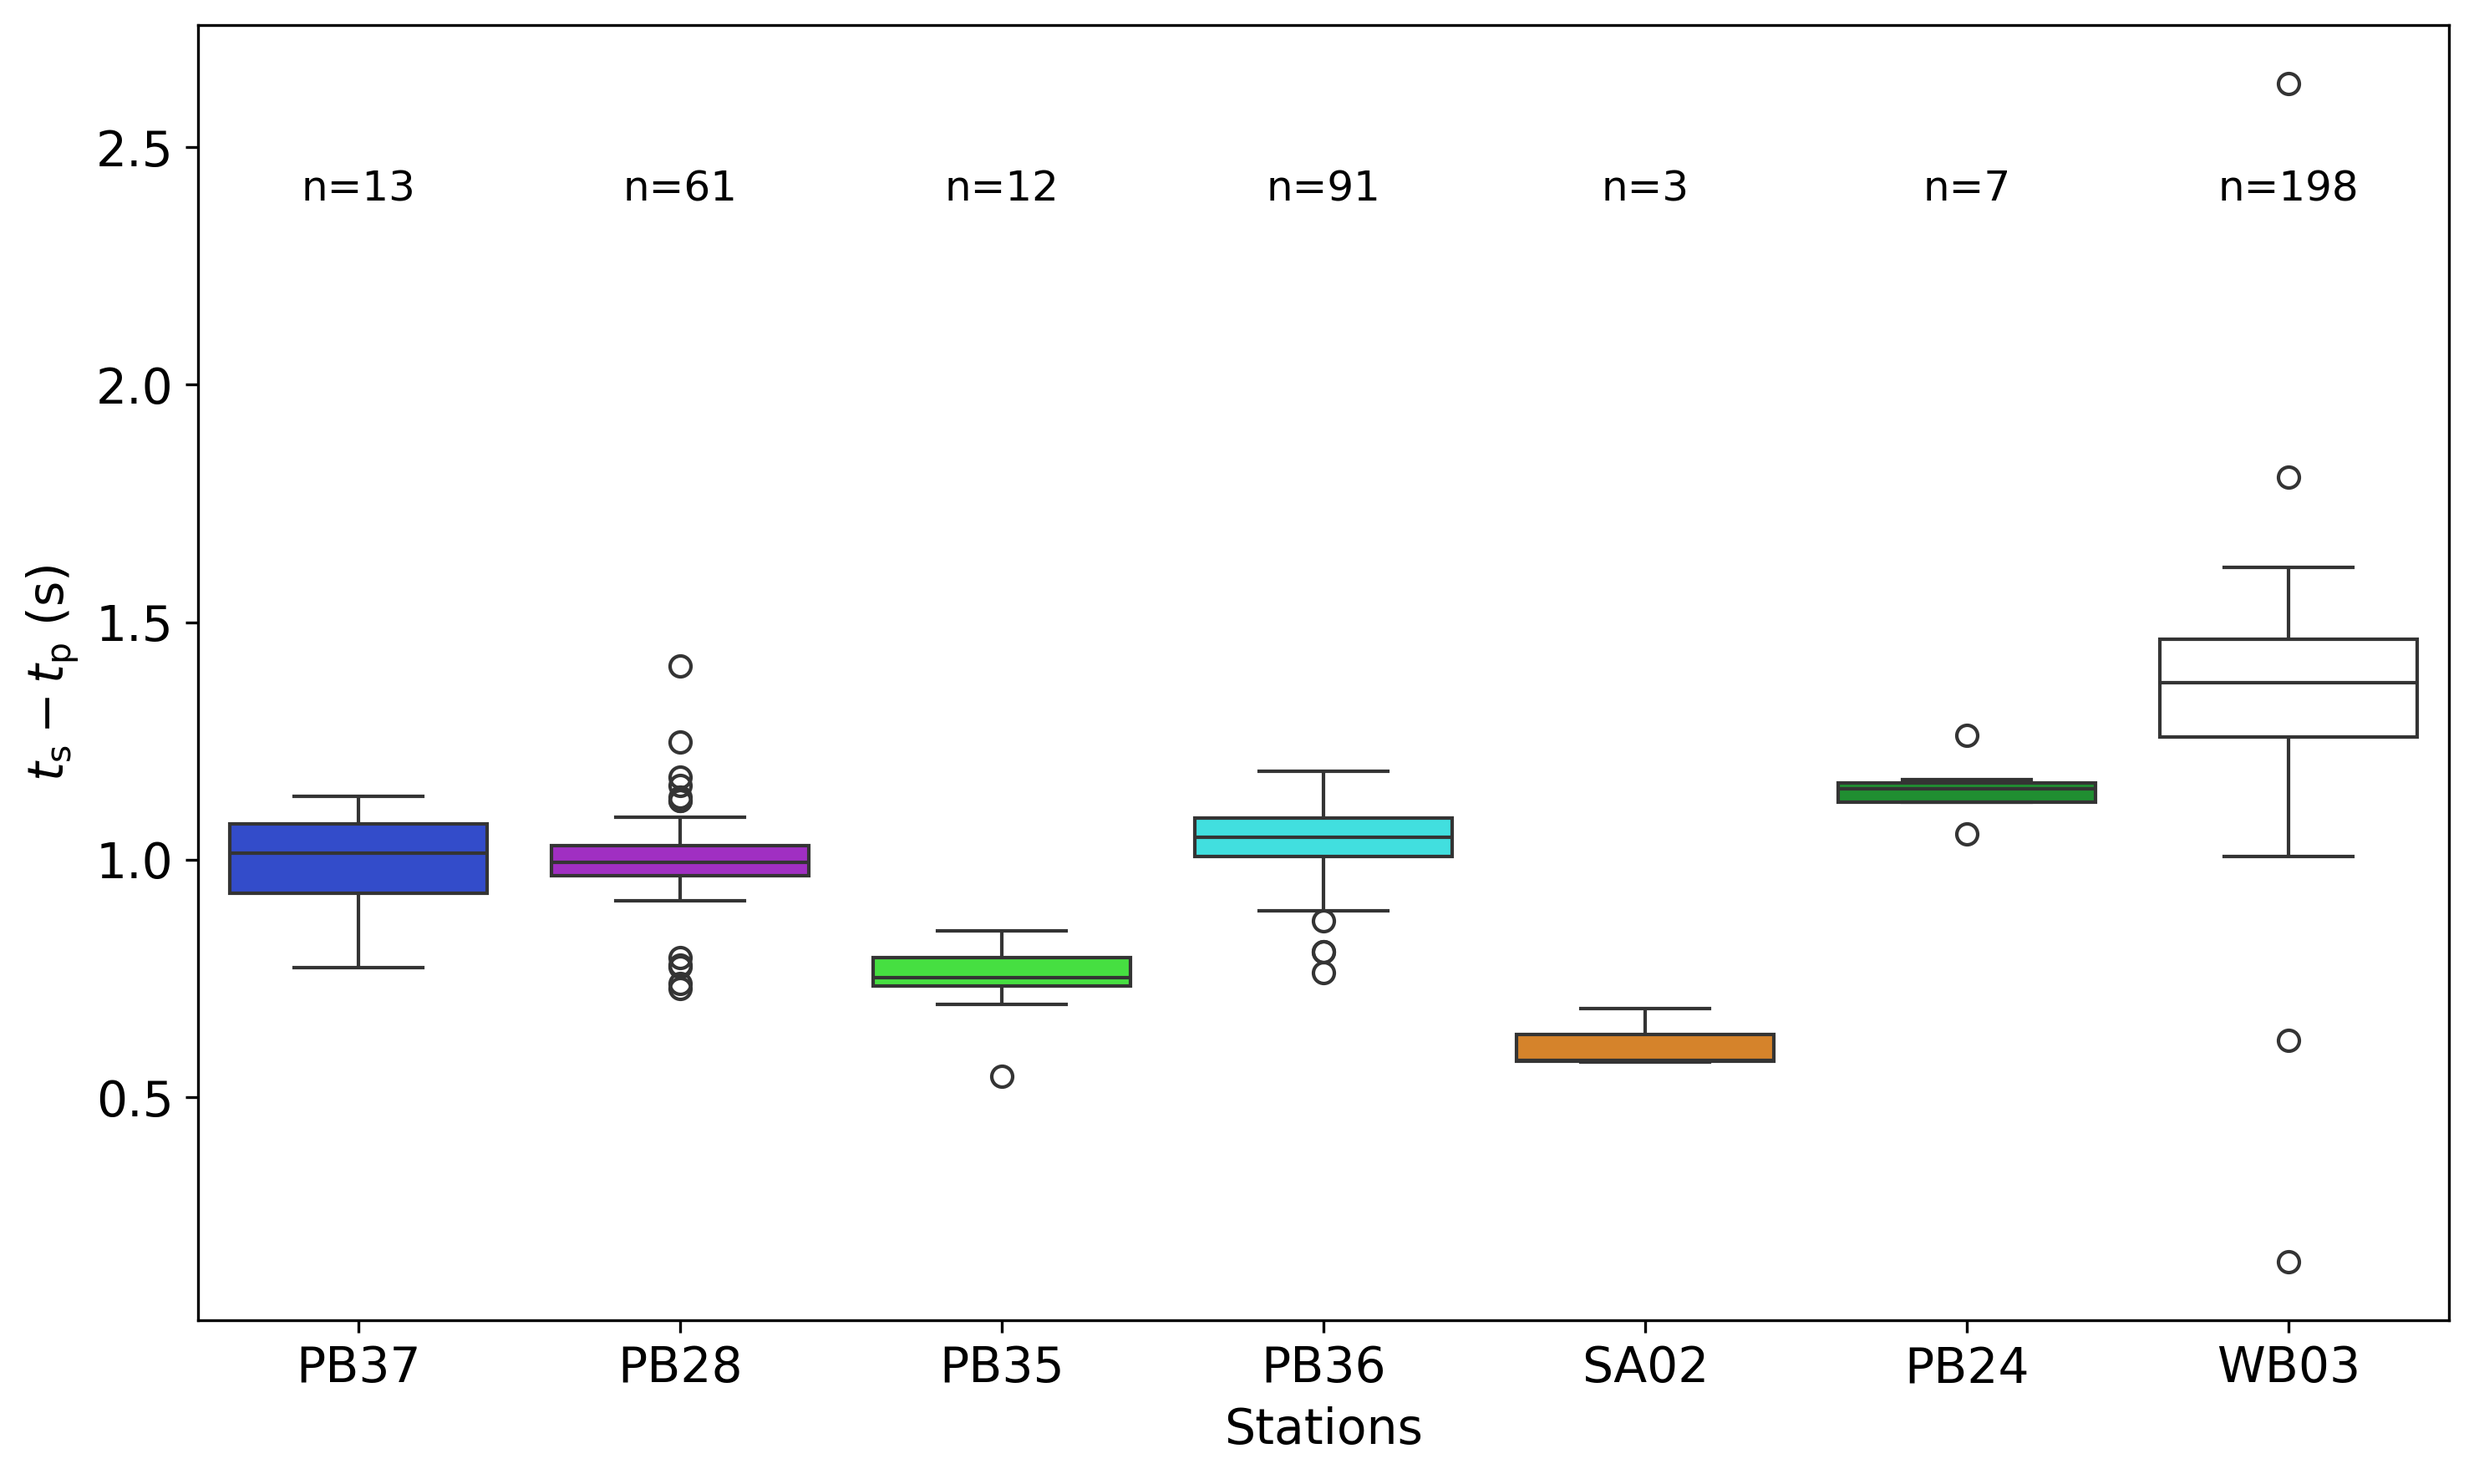
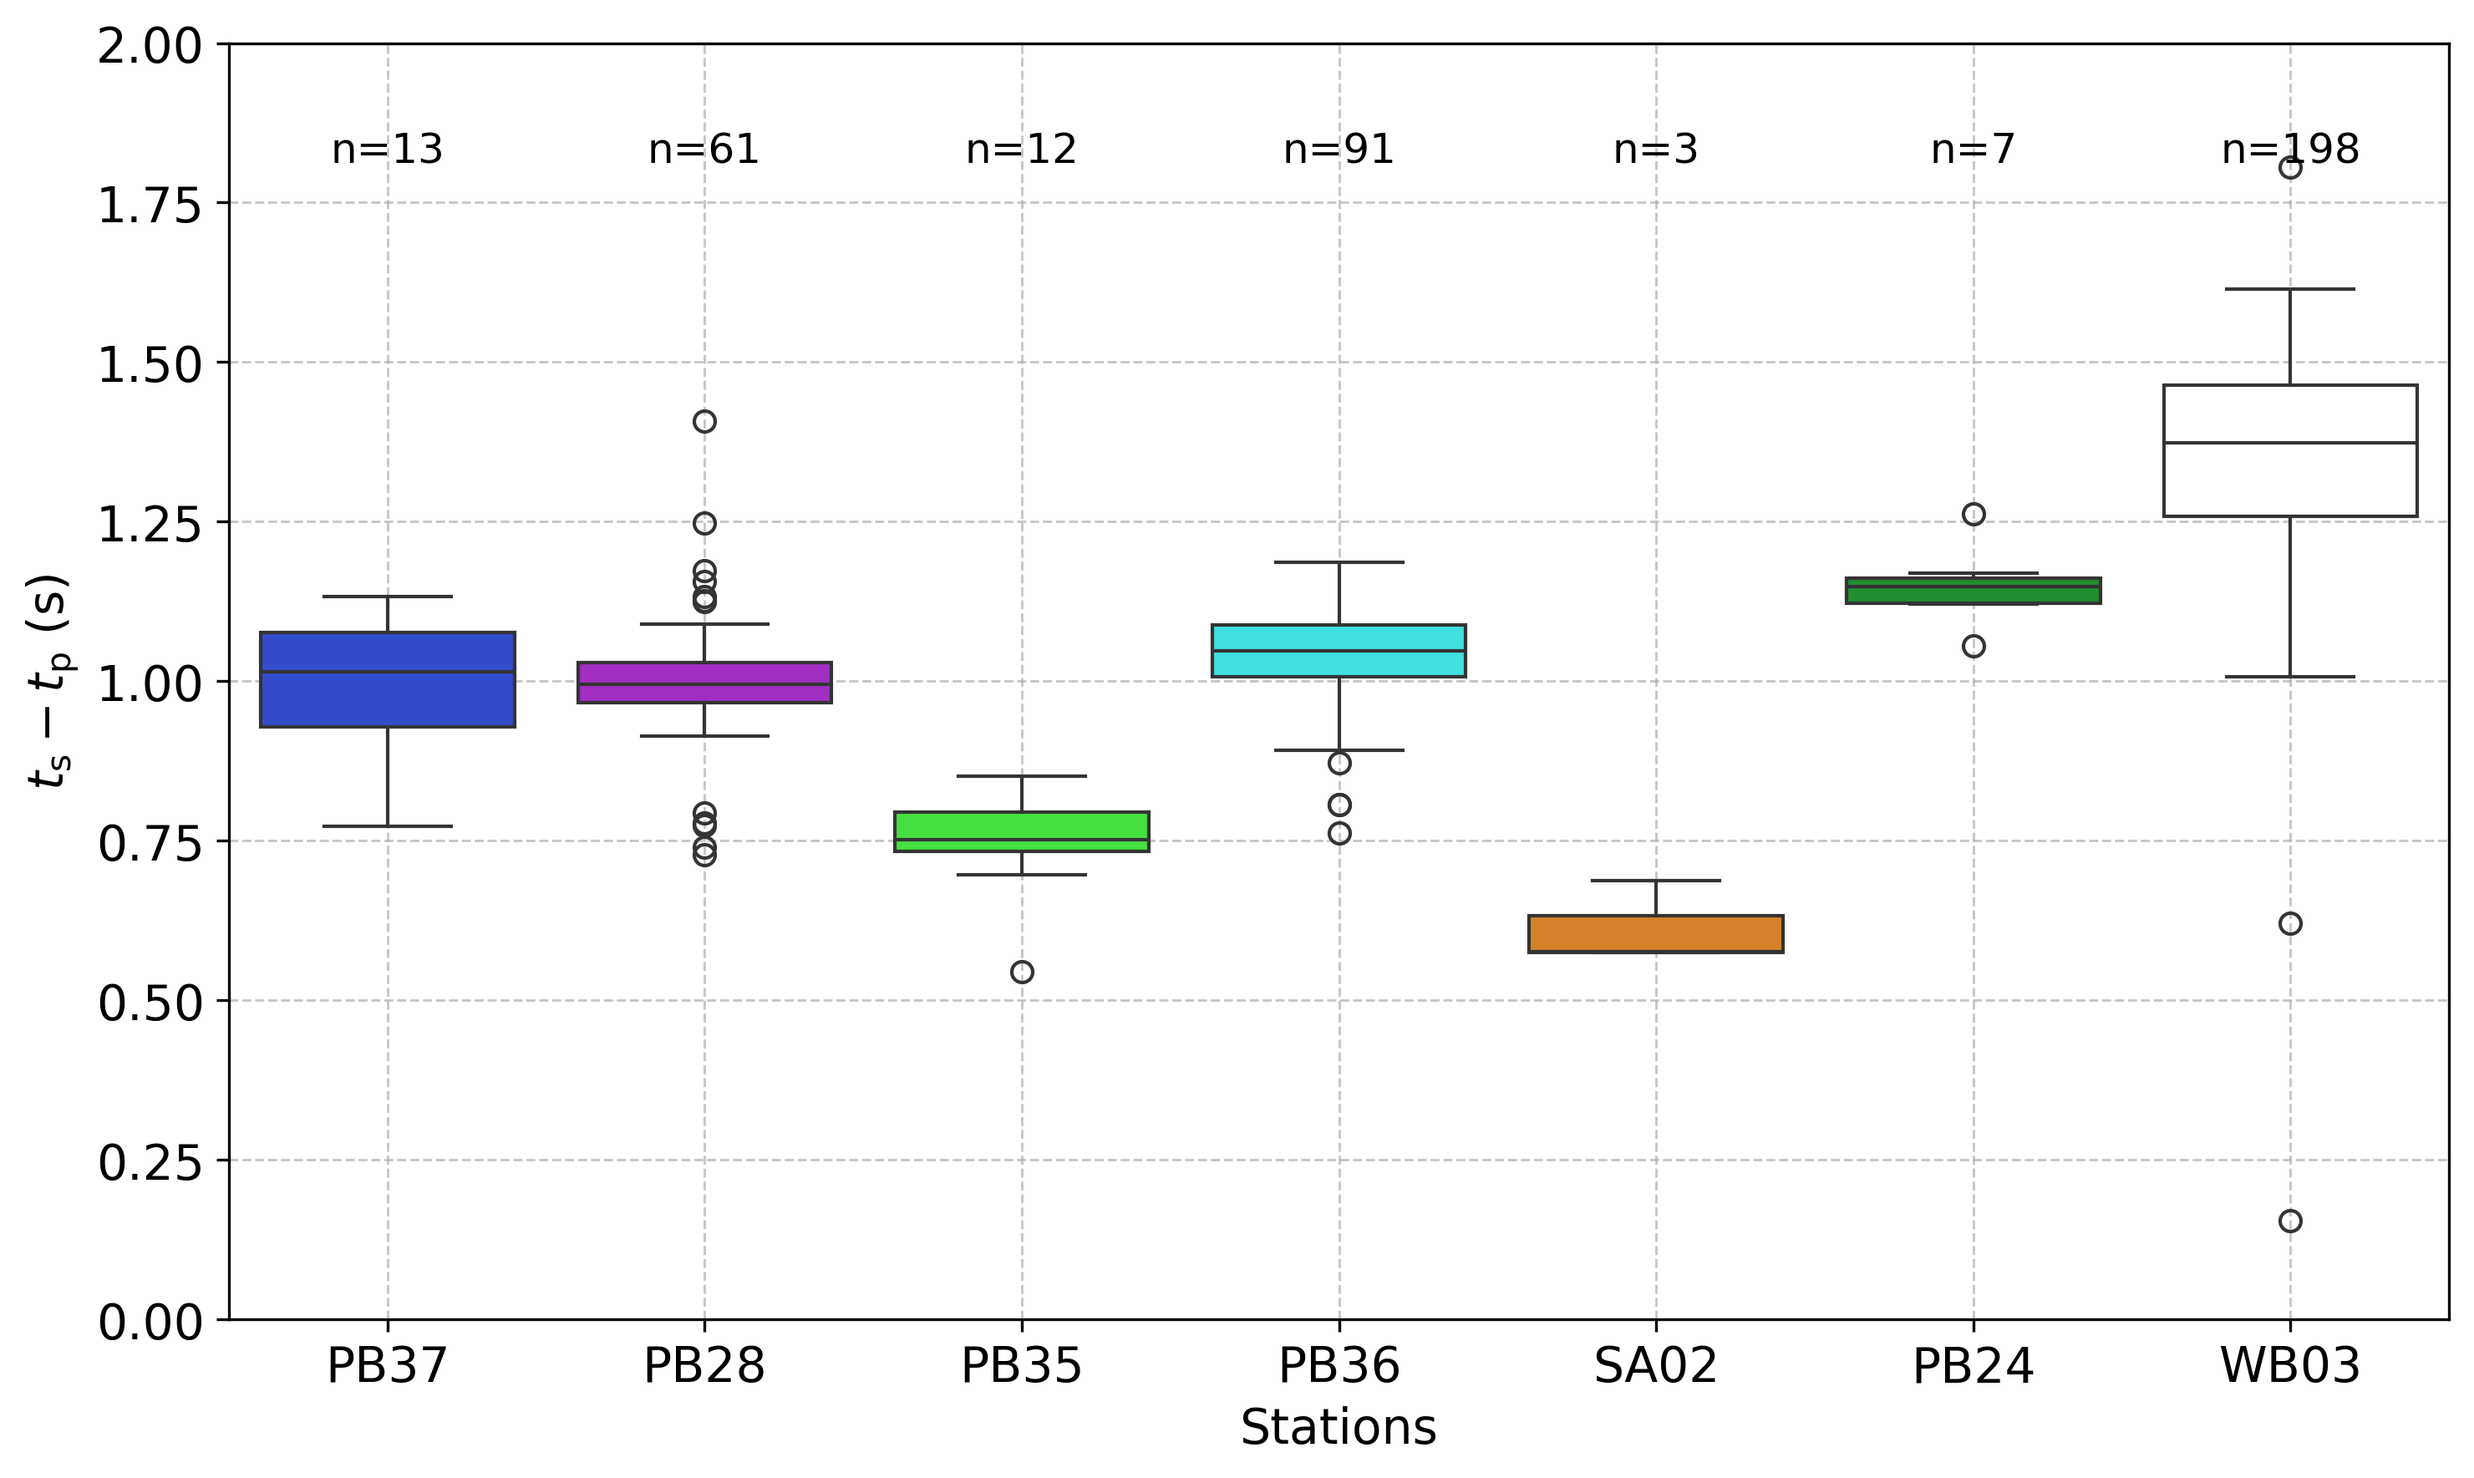
s-p times

diff --git a/10102024/delaware/loc/s_p.py b/10102024/delaware/loc/s_p.py
@@ -419,7 +419,9 @@ def plot_montecarlo_depths_by_station(data,title=None,show: bool = True, savefig
     
     return fig,ax
 
-def plot_times_by_station(data,title=None,show: bool = True, savefig:str=None,
+def plot_times_by_station(data,title=None,show: bool = True, 
+                          ylim=None,
+                          savefig:str=None,
                           **plot_kwargs):   
     
     data = data.drop_duplicates("ev_id")
@@ -438,7 +440,12 @@ def plot_times_by_station(data,title=None,show: bool = True, savefig:str=None,
         # Get the x position of each station
         # x_pos = sample_counts.unique().tolist().index(station)
         # Set the annotation above each box plot
-        ax.text(i, data['ts-tp'].max()-(data['ts-tp'].max()*0.1),
+        if ylim is not None:
+            posy = ylim[-1]
+        else:
+            posy = data['ts-tp'].max()
+        
+        ax.text(i, posy-posy*0.1,
                 f'n={count}', 
                 ha='center', va='bottom', color='black',
                 fontsize=12)
@@ -448,6 +455,12 @@ def plot_times_by_station(data,title=None,show: bool = True, savefig:str=None,
                         fontdict={"size":16})
     ax.set_xlabel('Stations',fontdict={"size":14})
     ax.set_ylabel(r'$t_{\mathrm{s}} - t_{\mathrm{p}}$ (s)',fontdict={"size":14})
+    
+    if ylim is not None:
+        ax.set_ylim(*ylim)
+    
+    ax.grid(True, linestyle='--', linewidth=0.7, alpha=0.7)
+    
     plt.xticks(fontsize=14)  # Rotate x labels for readability
     plt.yticks(fontsize=14)  # Rotate x labels for readability
     plt.tight_layout()  # Adjust layout to avoid cutting off labels

diff --git a/10102024/script/s_p/s_p.py b/10102024/script/s_p/s_p.py
@@ -48,6 +48,7 @@ picks["ts-tp"] = picks["tt_S"] - picks["tt_P"]
 output = os.path.join(dw_path,"script/s_p/s_p.png")
 plot_times_by_station(picks,order=order,
                       palette=custom_palette,
+                      ylim=(0,2),
                       savefig=output
                     #   boxprops={"edgecolor": "red"},       # Red box border
                     #     whiskerprops={"color": "red"},      # Red whisker lines
